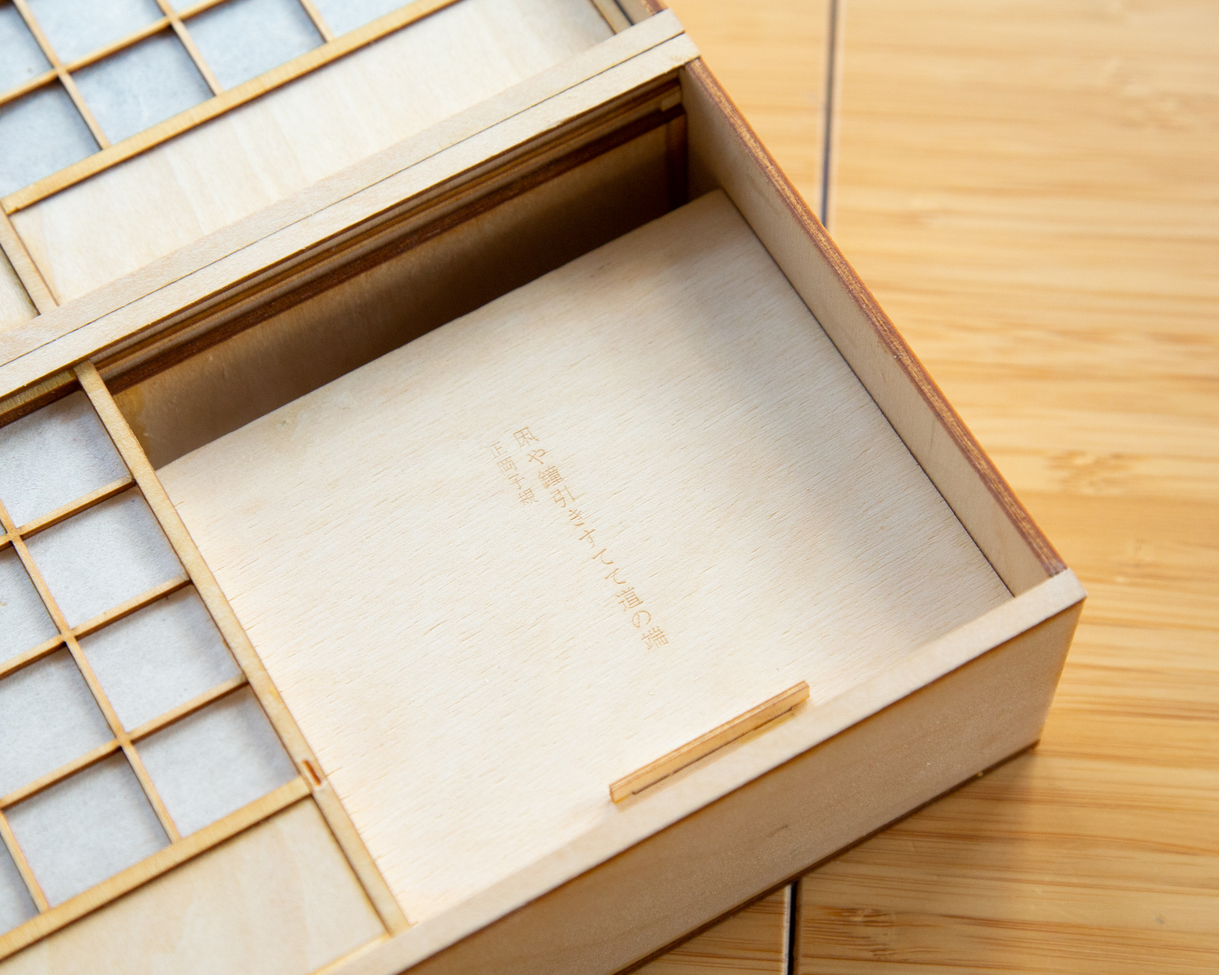
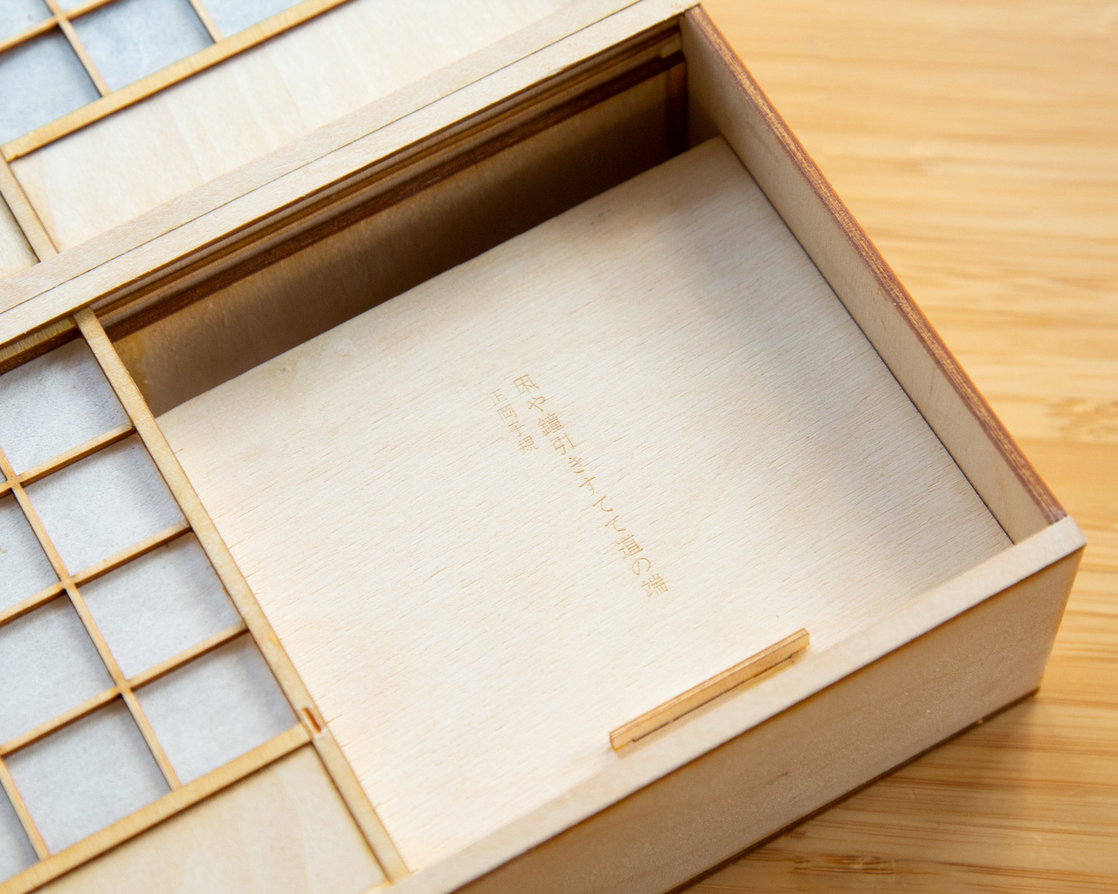
haikunohakoniwa done

diff --git a/bk-haikunohakoniwa.html b/bk-haikunohakoniwa.html
@@ -73,68 +73,78 @@
     <div class="row-one">
       <div class="column-one">
 
-        <img id="cbua-1-tr" class="ph-tr" src="images/cuttingbreathuntoair/cuttingbreathuntoair-2022-22.1x25.7x2.4cm-angelicaong-1-1.jpg">
-        <div id="cbua-1-m" class="ph-m">
-          <span id="cbua-1-c" class="ph-c">&times;</span>
-          <img src="images/cuttingbreathuntoair/cuttingbreathuntoair-2022-22.1x25.7x2.4cm-angelicaong-1-1.jpg" class="ph-mc" id="cbua-1-mc">
+        <img id="hnh-12-tr" class="ph-tr" src="images/haikunohakoniwa/haikunohakoniwa-2022-plywood-handmade-kozo-paper-paraffin-wax-bamboo-leaves-masking-paper-vellum-resin-foam-linen-thread-and-metal-bell-20.6x21.6x5.7cm-angelicaong-12.jpg">
+        <div id="hnh-12-m" class="ph-m">
+          <span id="hnh-12-c" class="ph-c">&times;</span>
+          <img src="images/haikunohakoniwa/haikunohakoniwa-2022-plywood-handmade-kozo-paper-paraffin-wax-bamboo-leaves-masking-paper-vellum-resin-foam-linen-thread-and-metal-bell-20.6x21.6x5.7cm-angelicaong-12.jpg" class="ph-mc" id="hnh-12-mc">
         </div>
 
-        <img id="cbua-4-tr" class="ph-tr" src="images/cuttingbreathuntoair/cuttingbreathuntoair-2022-22.1x25.7x2.4cm-angelicaong-4.jpg">
-        <div id="cbua-4-m" class="ph-m">
-          <span id="cbua-4-c" class="ph-c">&times;</span>
-          <img src="images/cuttingbreathuntoair/cuttingbreathuntoair-2022-22.1x25.7x2.4cm-angelicaong-4.jpg" class="ph-mc" id="cbua-4-mc">
+        <img id="hnh-3-tr" class="ph-tr" src="images/haikunohakoniwa/haikunohakoniwa-2022-plywood-handmade-kozo-paper-paraffin-wax-bamboo-leaves-masking-paper-vellum-resin-foam-linen-thread-and-metal-bell-20.6x21.6x5.7cm-angelicaong-3.jpg">
+        <div id="hnh-3-m" class="ph-m">
+          <span id="hnh-3-c" class="ph-c">&times;</span>
+          <img src="images/haikunohakoniwa/haikunohakoniwa-2022-plywood-handmade-kozo-paper-paraffin-wax-bamboo-leaves-masking-paper-vellum-resin-foam-linen-thread-and-metal-bell-20.6x21.6x5.7cm-angelicaong-3.jpg" class="ph-mc" id="hnh-3-mc">
         </div>
 
-        <img id="cbua-2-tr" class="ph-tr" src="images/cuttingbreathuntoair/cuttingbreathuntoair-2022-22.1x25.7x2.4cm-angelicaong-2.jpg">
-        <div id="cbua-2-m" class="ph-m">
-          <span id="cbua-2-c" class="ph-c">&times;</span>
-          <img src="images/cuttingbreathuntoair/cuttingbreathuntoair-2022-22.1x25.7x2.4cm-angelicaong-2.jpg" class="ph-mc" id="cbua-2-mc">
+        <img id="hnh-4-tr" class="ph-tr" src="images/haikunohakoniwa/haikunohakoniwa-2022-plywood-handmade-kozo-paper-paraffin-wax-bamboo-leaves-masking-paper-vellum-resin-foam-linen-thread-and-metal-bell-20.6x21.6x5.7cm-angelicaong-4.jpg">
+        <div id="hnh-4-m" class="ph-m">
+          <span id="hnh-4-c" class="ph-c">&times;</span>
+          <img src="images/haikunohakoniwa/haikunohakoniwa-2022-plywood-handmade-kozo-paper-paraffin-wax-bamboo-leaves-masking-paper-vellum-resin-foam-linen-thread-and-metal-bell-20.6x21.6x5.7cm-angelicaong-4.jpg" class="ph-mc" id="hnh-4-mc">
         </div>
 
-        <img id="cbua-6-tr" class="ph-tr" src="images/cuttingbreathuntoair/cuttingbreathuntoair-2022-22.1x25.7x2.4cm-angelicaong-6.jpg">
-        <div id="cbua-6-m" class="ph-m">
-          <span id="cbua-6-c" class="ph-c">&times;</span>
-          <img src="images/cuttingbreathuntoair/cuttingbreathuntoair-2022-22.1x25.7x2.4cm-angelicaong-6.jpg" class="ph-mc" id="cbua-6-mc">
+        <img id="hnh-5-tr" class="ph-tr" src="images/haikunohakoniwa/haikunohakoniwa-2022-plywood-handmade-kozo-paper-paraffin-wax-bamboo-leaves-masking-paper-vellum-resin-foam-linen-thread-and-metal-bell-20.6x21.6x5.7cm-angelicaong-5.jpg">
+        <div id="hnh-5-m" class="ph-m">
+          <span id="hnh-5-c" class="ph-c">&times;</span>
+          <img src="images/haikunohakoniwa/haikunohakoniwa-2022-plywood-handmade-kozo-paper-paraffin-wax-bamboo-leaves-masking-paper-vellum-resin-foam-linen-thread-and-metal-bell-20.6x21.6x5.7cm-angelicaong-5.jpg" class="ph-mc" id="hnh-5-mc">
         </div>
 
-        <img id="cbua-7-tr" class="ph-tr" src="images/cuttingbreathuntoair/cuttingbreathuntoair-2022-22.1x25.7x2.4cm-angelicaong-7.jpg">
-        <div id="cbua-7-m" class="ph-m">
-          <span id="cbua-7-c" class="ph-c">&times;</span>
-          <img src="images/cuttingbreathuntoair/cuttingbreathuntoair-2022-22.1x25.7x2.4cm-angelicaong-7.jpg" class="ph-mc" id="cbua-7-mc">
+        <img id="hnh-6-tr" class="ph-tr" src="images/haikunohakoniwa/haikunohakoniwa-2022-plywood-handmade-kozo-paper-paraffin-wax-bamboo-leaves-masking-paper-vellum-resin-foam-linen-thread-and-metal-bell-20.6x21.6x5.7cm-angelicaong-6.jpg">
+        <div id="hnh-6-m" class="ph-m">
+          <span id="hnh-6-c" class="ph-c">&times;</span>
+          <img src="images/haikunohakoniwa/haikunohakoniwa-2022-plywood-handmade-kozo-paper-paraffin-wax-bamboo-leaves-masking-paper-vellum-resin-foam-linen-thread-and-metal-bell-20.6x21.6x5.7cm-angelicaong-6.jpg" class="ph-mc" id="hnh-6-mc">
         </div>
 
-        <img id="cbua-13-tr" class="ph-tr" src="images/cuttingbreathuntoair/cuttingbreathuntoair-2022-22.1x25.7x2.4cm-angelicaong-13.jpg">
-        <div id="cbua-13-m" class="ph-m">
-          <span id="cbua-13-c" class="ph-c">&times;</span>
-          <img src="images/cuttingbreathuntoair/cuttingbreathuntoair-2022-22.1x25.7x2.4cm-angelicaong-13.jpg" class="ph-mc" id="cbua-13-mc">
+        <img id="hnh-8-tr" class="ph-tr" src="images/haikunohakoniwa/haikunohakoniwa-2022-plywood-handmade-kozo-paper-paraffin-wax-bamboo-leaves-masking-paper-vellum-resin-foam-linen-thread-and-metal-bell-20.6x21.6x5.7cm-angelicaong-8.jpg">
+        <div id="hnh-8-m" class="ph-m">
+          <span id="hnh-8-c" class="ph-c">&times;</span>
+          <img src="images/haikunohakoniwa/haikunohakoniwa-2022-plywood-handmade-kozo-paper-paraffin-wax-bamboo-leaves-masking-paper-vellum-resin-foam-linen-thread-and-metal-bell-20.6x21.6x5.7cm-angelicaong-8.jpg" class="ph-mc" id="hnh-8-mc">
         </div>
 
-        <img id="cbua-28-tr" class="ph-tr" src="images/cuttingbreathuntoair/cuttingbreathuntoair-2022-22.1x25.7x2.4cm-angelicaong-28.jpg">
-        <div id="cbua-28-m" class="ph-m">
-          <span id="cbua-28-c" class="ph-c">&times;</span>
-          <img src="images/cuttingbreathuntoair/cuttingbreathuntoair-2022-22.1x25.7x2.4cm-angelicaong-28.jpg" class="ph-mc" id="cbua-28-mc">
+        <img id="hnh-9-tr" class="ph-tr" src="images/haikunohakoniwa/haikunohakoniwa-2022-plywood-handmade-kozo-paper-paraffin-wax-bamboo-leaves-masking-paper-vellum-resin-foam-linen-thread-and-metal-bell-20.6x21.6x5.7cm-angelicaong-9.jpg">
+        <div id="hnh-9-m" class="ph-m">
+          <span id="hnh-9-c" class="ph-c">&times;</span>
+          <img src="images/haikunohakoniwa/haikunohakoniwa-2022-plywood-handmade-kozo-paper-paraffin-wax-bamboo-leaves-masking-paper-vellum-resin-foam-linen-thread-and-metal-bell-20.6x21.6x5.7cm-angelicaong-9.jpg" class="ph-mc" id="hnh-9-mc">
         </div>
 
-        <img id="cbua-31-tr" class="ph-tr" src="images/cuttingbreathuntoair/cuttingbreathuntoair-2022-22.1x25.7x2.4cm-angelicaong-31.jpg">
-        <div id="cbua-31-m" class="ph-m">
-          <span id="cbua-31-c" class="ph-c">&times;</span>
-          <img src="images/cuttingbreathuntoair/cuttingbreathuntoair-2022-22.1x25.7x2.4cm-angelicaong-31.jpg" class="ph-mc" id="cbua-31-mc">
+        <img id="hnh-10-tr" class="ph-tr" src="images/haikunohakoniwa/haikunohakoniwa-2022-plywood-handmade-kozo-paper-paraffin-wax-bamboo-leaves-masking-paper-vellum-resin-foam-linen-thread-and-metal-bell-20.6x21.6x5.7cm-angelicaong-10.jpg">
+        <div id="hnh-10-m" class="ph-m">
+          <span id="hnh-10-c" class="ph-c">&times;</span>
+          <img src="images/haikunohakoniwa/haikunohakoniwa-2022-plywood-handmade-kozo-paper-paraffin-wax-bamboo-leaves-masking-paper-vellum-resin-foam-linen-thread-and-metal-bell-20.6x21.6x5.7cm-angelicaong-10.jpg" class="ph-mc" id="hnh-10-mc">
+        </div>
+
+        <img id="hnh-11-tr" class="ph-tr" src="images/haikunohakoniwa/haikunohakoniwa-2022-plywood-handmade-kozo-paper-paraffin-wax-bamboo-leaves-masking-paper-vellum-resin-foam-linen-thread-and-metal-bell-20.6x21.6x5.7cm-angelicaong-11.jpg">
+        <div id="hnh-11-m" class="ph-m">
+          <span id="hnh-11-c" class="ph-c">&times;</span>
+          <img src="images/haikunohakoniwa/haikunohakoniwa-2022-plywood-handmade-kozo-paper-paraffin-wax-bamboo-leaves-masking-paper-vellum-resin-foam-linen-thread-and-metal-bell-20.6x21.6x5.7cm-angelicaong-11.jpg" class="ph-mc" id="hnh-11-mc">
         </div>
 
         <div style="padding-bottom: 1em;">
-          <br><small><i>cutting breath unto air.</i> 2022. Handbound. 22.1 x 25.7 x 2.4 cm. (8 11/16 x 10 1/8 x 15/16 in). Vellum, book cloth, book board, cotton paper, and decorative paper.
+          <br><small><span lang="ja">「俳句の箱庭」</span><i>Garden of Haikus.</i> 2022. Handbound. 20.6 x 21.6 x 5.7 cm. (8.11 x 8.50 x 2.24 in). Plywood, handmade kōzo paper, paraffin wax, bamboo leaves, masking paper, vellum, resin, foam, linen thread, and metal bell.
           <br>
           <br>
-          <i>cutting breath unto air</i> is a combination of a ziggurat-fold book and a Japanese-bound book (stab binding). It is a book of haikus about haikus. I wanted to convey the experience offered by Japanese haikus in tangible form to audiences who do not speak Japanese. This book translates through demonstration.
+          <span lang="ja">「俳句の箱庭」</span><i>Garden of Haikus</i> conveys the experience and sensation of reading a Japanese haiku—its nuances, atmospheric quality, and revelatory potential. The box component features fully functioning shōji doors. Each of these sliding doors opens up to one book.
+          <br><br>
+          The seasons play an integral role in Japanese haiku tradition, with specific kigo (<span lang="ja">季語</span>, literally translating to 'season word') corresponding to particular seasons. When one identifies a kigo in a haiku, one will know which season the haiku is speaking to. To emphasise this crucial feature, I crafted one compartment for each season. Each compartment houses one book and each book portrays one haiku.
+          <br><br>
+          The haikus featured in this book are as follows:
+          <br><br>
+          Spring haiku: <span lang="ja">雪解や竹はね返る日の表　ー正岡子規</span>
           <br>
+          Summer haiku: <span lang="ja">蝉の空松籟塵を漲らし　ー川端茅舎</span>
           <br>
-          The smaller inner book communicates features of Japanese haikus that I am drawn to, one being kireji <span lang="ja">(切れ字)</span>, which translates literally to 'cutting word'. Kireji are verbal exclamations that punctuate and emphasise the end of a haiku section. Masterful use of kireji creates an intuitive literary rhythm that very naturally 'cuts space' in the haiku.
+          Autumn haiku: <span lang="ja">露の世は露の世ながらさりながら　ー小林一茶</span>
           <br>
-          <br>
-          The spiral shape of the ziggurat book takes inspiration from one specific haiku, which is the first one on the strip: <span lang="ja">巻貝の渦ゆきわたる冬銀河</span> (makigai no uzu yukiwataru fuyu ginga). Written by <span lang="ja">花谷和子</span> (HANATANI Kazuko), this haiku can be roughly translated to 'conch shell’s / spiralling / winter galaxy', likening the spiral of a conch shell to that of the Milky Way.
-          <br>
-          <br>
-          <i>cutting breath unto air</i> is the precursor to<span lang="ja">「俳句の箱庭」</span><i>(Garden of Haikus)</i>, marking the beginning of my investigation of language and its operations through the book form.
+          Winter haiku: <span lang="ja">凩や鐘引きすてて道の端　ー正岡子規</span>
+
           </small>
         </div>
 

diff --git a/bk-haikunohakoniwa.js b/bk-haikunohakoniwa.js
@@ -2,122 +2,137 @@ AOS.init({
   duration: 900,
 })
 
-var cbua2m = document.getElementById("cbua-2-m");
-var cbua2tr = document.getElementById("cbua-2-tr");
-var cbua2mc = document.getElementById("cbua-2-mc");
-cbua2tr.onclick = function(){
-  cbua2m.style.display = "block";
-  cbua2mc.src = this.src;
+var hnh12m = document.getElementById("hnh-12-m");
+var hnh12tr = document.getElementById("hnh-12-tr");
+var hnh12mc = document.getElementById("hnh-12-mc");
+hnh12tr.onclick = function(){
+  hnh12m.style.display = "block";
+  hnh12mc.src = this.src;
 }
-var cbua2c = document.getElementById("cbua-2-c");
-cbua2c.onclick = function() {
-  cbua2m.style.display = "none";
+var hnh12c = document.getElementById("hnh-12-c");
+hnh12c.onclick = function() {
+  hnh12m.style.display = "none";
 }
-cbua2m.onclick = function() {
-  cbua2m.style.display = "none";
-}
-
-var cbua13m = document.getElementById("cbua-13-m");
-var cbua13tr = document.getElementById("cbua-13-tr");
-var cbua13mc = document.getElementById("cbua-13-mc");
-cbua13tr.onclick = function(){
-  cbua13m.style.display = "block";
-  cbua13mc.src = this.src;
-}
-var cbua13c = document.getElementById("cbua-13-c");
-cbua13c.onclick = function() {
-  cbua13m.style.display = "none";
-}
-cbua13m.onclick = function() {
-  cbua13m.style.display = "none";
+hnh12m.onclick = function() {
+  hnh12m.style.display = "none";
 }
 
-var cbua4m = document.getElementById("cbua-4-m");
-var cbua4tr = document.getElementById("cbua-4-tr");
-var cbua4mc = document.getElementById("cbua-4-mc");
-cbua4tr.onclick = function(){
-  cbua4m.style.display = "block";
-  cbua4mc.src = this.src;
+var hnh3m = document.getElementById("hnh-3-m");
+var hnh3tr = document.getElementById("hnh-3-tr");
+var hnh3mc = document.getElementById("hnh-3-mc");
+hnh3tr.onclick = function(){
+  hnh3m.style.display = "block";
+  hnh3mc.src = this.src;
 }
-var cbua4c = document.getElementById("cbua-4-c");
-cbua4c.onclick = function() {
-  cbua4m.style.display = "none";
+var hnh3c = document.getElementById("hnh-3-c");
+hnh3c.onclick = function() {
+  hnh3m.style.display = "none";
 }
-cbua4m.onclick = function() {
-  cbua4m.style.display = "none";
-}
-
-var cbua1m = document.getElementById("cbua-1-m");
-var cbua1tr = document.getElementById("cbua-1-tr");
-var cbua1mc = document.getElementById("cbua-1-mc");
-cbua1tr.onclick = function(){
-  cbua1m.style.display = "block";
-  cbua1mc.src = this.src;
-}
-var cbua1c = document.getElementById("cbua-1-c");
-cbua1c.onclick = function() {
-  cbua1m.style.display = "none";
-}
-cbua1m.onclick = function() {
-  cbua1m.style.display = "none";
+hnh3m.onclick = function() {
+  hnh3m.style.display = "none";
 }
 
-var cbua6m = document.getElementById("cbua-6-m");
-var cbua6tr = document.getElementById("cbua-6-tr");
-var cbua6mc = document.getElementById("cbua-6-mc");
-cbua6tr.onclick = function(){
-  cbua6m.style.display = "block";
-  cbua6mc.src = this.src;
+var hnh4m = document.getElementById("hnh-4-m");
+var hnh4tr = document.getElementById("hnh-4-tr");
+var hnh4mc = document.getElementById("hnh-4-mc");
+hnh4tr.onclick = function(){
+  hnh4m.style.display = "block";
+  hnh4mc.src = this.src;
 }
-var cbua6c = document.getElementById("cbua-6-c");
-cbua6c.onclick = function() {
-  cbua6m.style.display = "none";
+var hnh4c = document.getElementById("hnh-4-c");
+hnh4c.onclick = function() {
+  hnh4m.style.display = "none";
 }
-cbua6m.onclick = function() {
-  cbua6m.style.display = "none";
-}
-
-var cbua7m = document.getElementById("cbua-7-m");
-var cbua7tr = document.getElementById("cbua-7-tr");
-var cbua7mc = document.getElementById("cbua-7-mc");
-cbua7tr.onclick = function(){
-  cbua7m.style.display = "block";
-  cbua7mc.src = this.src;
-}
-var cbua7c = document.getElementById("cbua-7-c");
-cbua7c.onclick = function() {
-  cbua7m.style.display = "none";
-}
-cbua7m.onclick = function() {
-  cbua7m.style.display = "none";
+hnh4m.onclick = function() {
+  hnh4m.style.display = "none";
 }
 
-var cbua28m = document.getElementById("cbua-28-m");
-var cbua28tr = document.getElementById("cbua-28-tr");
-var cbua28mc = document.getElementById("cbua-28-mc");
-cbua28tr.onclick = function(){
-  cbua28m.style.display = "block";
-  cbua28mc.src = this.src;
+var hnh5m = document.getElementById("hnh-5-m");
+var hnh5tr = document.getElementById("hnh-5-tr");
+var hnh5mc = document.getElementById("hnh-5-mc");
+hnh5tr.onclick = function(){
+  hnh5m.style.display = "block";
+  hnh5mc.src = this.src;
 }
-var cbua28c = document.getElementById("cbua-28-c");
-cbua28c.onclick = function() {
-  cbua28m.style.display = "none";
+var hnh5c = document.getElementById("hnh-5-c");
+hnh5c.onclick = function() {
+  hnh5m.style.display = "none";
 }
-cbua28m.onclick = function() {
-  cbua28m.style.display = "none";
+hnh5m.onclick = function() {
+  hnh5m.style.display = "none";
 }
 
-var cbua31m = document.getElementById("cbua-31-m");
-var cbua31tr = document.getElementById("cbua-31-tr");
-var cbua31mc = document.getElementById("cbua-31-mc");
-cbua31tr.onclick = function(){
-  cbua31m.style.display = "block";
-  cbua31mc.src = this.src;
+var hnh6m = document.getElementById("hnh-6-m");
+var hnh6tr = document.getElementById("hnh-6-tr");
+var hnh6mc = document.getElementById("hnh-6-mc");
+hnh6tr.onclick = function(){
+  hnh6m.style.display = "block";
+  hnh6mc.src = this.src;
 }
-var cbua31c = document.getElementById("cbua-31-c");
-cbua31c.onclick = function() {
-  cbua31m.style.display = "none";
+var hnh6c = document.getElementById("hnh-6-c");
+hnh6c.onclick = function() {
+  hnh6m.style.display = "none";
 }
-cbua31m.onclick = function() {
-  cbua31m.style.display = "none";
+hnh6m.onclick = function() {
+  hnh6m.style.display = "none";
+}
+
+var hnh8m = document.getElementById("hnh-8-m");
+var hnh8tr = document.getElementById("hnh-8-tr");
+var hnh8mc = document.getElementById("hnh-8-mc");
+hnh8tr.onclick = function(){
+  hnh8m.style.display = "block";
+  hnh8mc.src = this.src;
+}
+var hnh8c = document.getElementById("hnh-8-c");
+hnh8c.onclick = function() {
+  hnh8m.style.display = "none";
+}
+hnh8m.onclick = function() {
+  hnh8m.style.display = "none";
+}
+
+var hnh9m = document.getElementById("hnh-9-m");
+var hnh9tr = document.getElementById("hnh-9-tr");
+var hnh9mc = document.getElementById("hnh-9-mc");
+hnh9tr.onclick = function(){
+  hnh9m.style.display = "block";
+  hnh9mc.src = this.src;
+}
+var hnh9c = document.getElementById("hnh-9-c");
+hnh9c.onclick = function() {
+  hnh9m.style.display = "none";
+}
+hnh9m.onclick = function() {
+  hnh9m.style.display = "none";
+}
+
+var hnh10m = document.getElementById("hnh-10-m");
+var hnh10tr = document.getElementById("hnh-10-tr");
+var hnh10mc = document.getElementById("hnh-10-mc");
+hnh10tr.onclick = function(){
+  hnh10m.style.display = "block";
+  hnh10mc.src = this.src;
+}
+var hnh10c = document.getElementById("hnh-10-c");
+hnh10c.onclick = function() {
+  hnh10m.style.display = "none";
+}
+hnh10m.onclick = function() {
+  hnh10m.style.display = "none";
+}
+
+var hnh11m = document.getElementById("hnh-11-m");
+var hnh11tr = document.getElementById("hnh-11-tr");
+var hnh11mc = document.getElementById("hnh-11-mc");
+hnh11tr.onclick = function(){
+  hnh11m.style.display = "block";
+  hnh11mc.src = this.src;
+}
+var hnh11c = document.getElementById("hnh-11-c");
+hnh11c.onclick = function() {
+  hnh11m.style.display = "none";
+}
+hnh11m.onclick = function() {
+  hnh11m.style.display = "none";
 }

diff --git a/books.html b/books.html
@@ -75,7 +75,7 @@
       <div class="responsive-books">
         <div class="gallery">
           <a href="bk-haikunohakoniwa.html">
-            <img src="images/haikunohakoniwa/haikunohakoniwa-2022-plywood-handmade-kozo-paper-paraffin-wax-bamboo-leaves-masking-paper-vellum-resin-foam-linen-thread-and-metal-bell-20.6x21.6x5.7cm-angelicaong-1.jpg" alt="俳句の箱庭 Garden of Haikus thumbnail" class="bookimages">
+            <img src="images/haikunohakoniwa/haikunohakoniwa-2022-plywood-handmade-kozo-paper-paraffin-wax-bamboo-leaves-masking-paper-vellum-resin-foam-linen-thread-and-metal-bell-20.6x21.6x5.7cm-angelicaong-12.jpg" alt="俳句の箱庭 Garden of Haikus thumbnail" class="bookimages">
           </a>
           <div class="desc-bk">
             <a href="bk-haikunohakoniwa.html">
